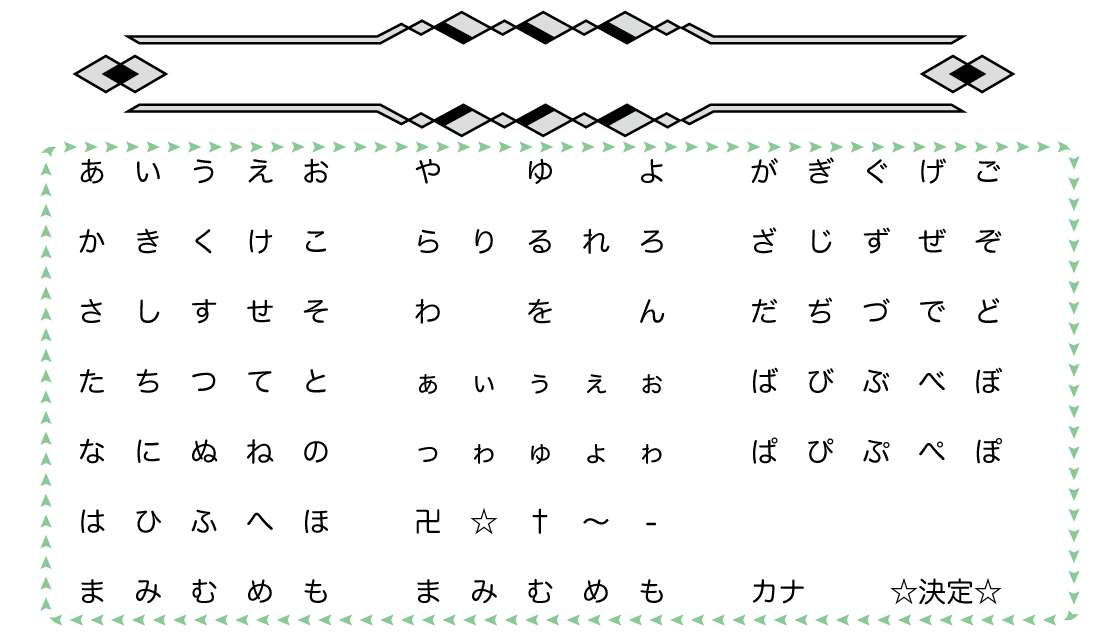
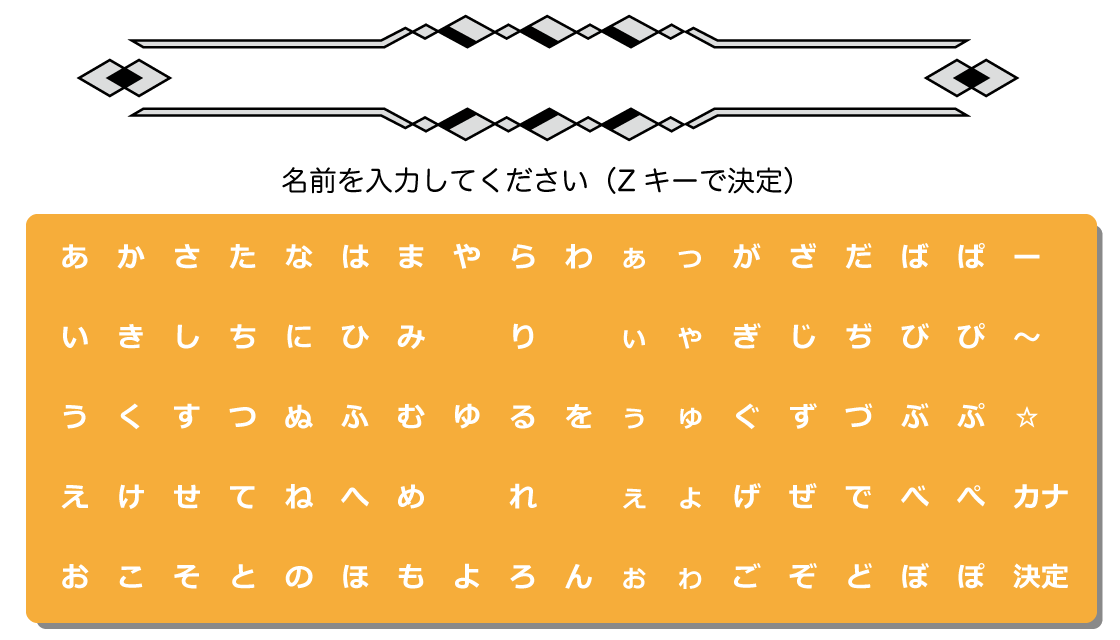
名前入力用配列おおよそ閑静 記号がなんか文字化けする 画像もできた

diff --git a/src/arcircle/ftsim/state/inputname/InputNameModel.java b/src/arcircle/ftsim/state/inputname/InputNameModel.java
@@ -17,11 +17,11 @@ public class InputNameModel implements KeyListner {
 	public int CursorX = 0;  //カーソルが選択している座標Xを格納
 	public int CursorY = 0;  //カーソルが選択している座標Yを格納
 	public char[][] cursorchar = new char [][] {
-			{'あ','か','さ','た','な','は','ま','や','ら','わ','ぁ','っ','が','ざ'},
-			{'い','き','し','ち','に','ひ','み','　','り','　','ぁ','っ','が','ざ'},
-			{'う','く','す','つ','な','は','ま','や','ら','わ','ぁ','っ','が','ざ'},
-			{'え','け','せ','て','な','は','ま','や','ら','わ','ぁ','っ','が','ざ'},
-			{'お','こ','そ','と','な','は','ま','や','ら','わ','ぁ','っ','が','ざ'}
+			{'あ','か','さ','た','な','は','ま','や','ら','わ','ぁ','っ','が','ざ','だ','ば','ぱ','ー'},
+			{'い','き','し','ち','に','ひ','み','　','り','　','ぃ','ゃ','ぎ','じ','ぢ','び','ぴ','～'},
+			{'う','く','す','つ','ぬ','ふ','む','ゆ','る','を','ぅ','ゅ','ぐ','ず','づ','ぶ','ぷ','☆'},
+			{'え','け','せ','て','ね','へ','め','　','れ','　','ぇ','ょ','げ','ぜ','で','べ','ぺ','齺'},
+			{'お','こ','そ','と','の','ほ','も','よ','ろ','ん','ぉ','ゎ','ご','ぞ','ど','ぼ','ぽ','⑦'}
 	};
 
 	public InputNameModel(InputNameState inputNameState) {
@@ -39,7 +39,7 @@ public class InputNameModel implements KeyListner {
 			if(CursorY>0){CursorY = CursorY-1;}
 		}
 		if(keyInput.isKeyDown(Input.KEY_DOWN)) {
-			if(CursorY<7){CursorY = CursorY+1;}
+			if(CursorY<4){CursorY = CursorY+1;}
 		}
 		if(keyInput.isKeyDown(Input.KEY_LEFT)) {
 			if(CursorX>0){CursorX = CursorX-1;}

diff --git a/src/arcircle/ftsim/state/inputname/InputNameView.java b/src/arcircle/ftsim/state/inputname/InputNameView.java
@@ -40,10 +40,10 @@ public class InputNameView implements Renderer {
 		g.setFont(inState.getFont());
 		g.drawImage(NameBack, 0, 0);
 
-		g.drawImage(inState.sprite[0], 60+inModel.CursorX*56,  180 + inModel.CursorY*70);
+		g.drawImage(inState.sprite[0], 38+inModel.CursorX*56,  218 + inModel.CursorY*80);
 
 		int messageWidth = inState.getFont().getWidth(inModel.message);
-		g.drawString(Cursor = inModel.message, (FTSimulationGame.WIDTH - messageWidth) / 2, 150);
+		//g.drawString(Cursor = inModel.message, (FTSimulationGame.WIDTH - messageWidth) / 2, 150);
 
 		g.drawString(inModel.getCharFromCursor(), (FTSimulationGame.WIDTH/2 -100), 80);
 	}

diff --git a/src/arcircle/ftsim/state/InputNameState.java b/src/arcircle/ftsim/state/InputNameState.java
@@ -36,7 +36,7 @@ public class InputNameState extends KeyInputState {
 		inModel = new InputNameModel(this);
 		inView = new InputNameView(inModel, this);
 
-		SpriteSheet ssheet = new SpriteSheet(new Image("./image/haniwa.png"), 64, 64);
+		SpriteSheet ssheet = new SpriteSheet(new Image("./image/Cursor.png"), 80, 80);
 		sprite[0] = ssheet.getSubImage(0, 0);
 
 		System.out.println("Enter input Name State");
